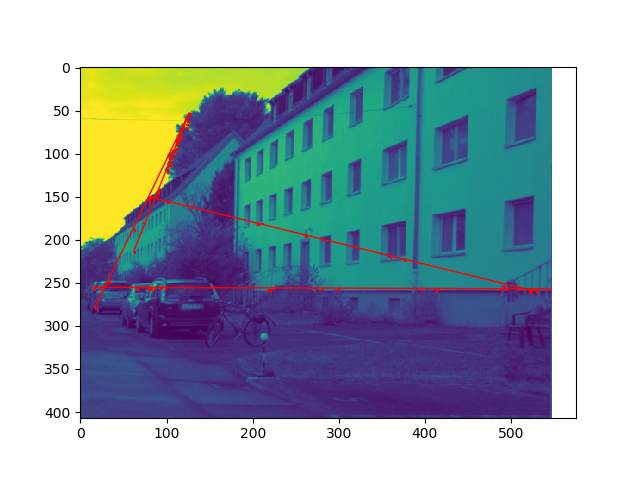
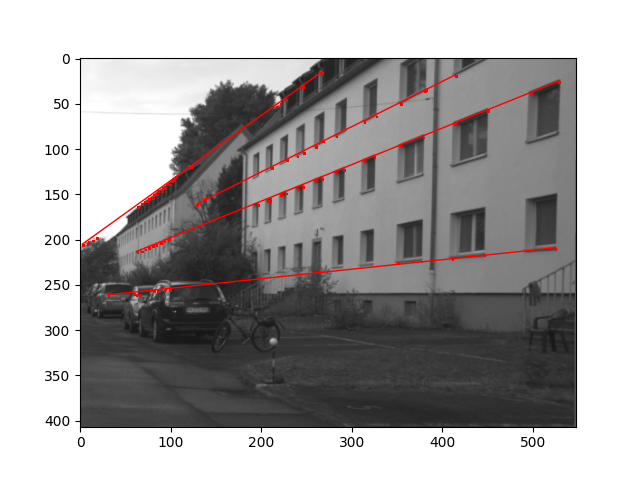
update files

diff --git a/Assignment2_LineDetection/hough.py b/Assignment2_LineDetection/hough.py
@@ -1,4 +1,5 @@
 import numpy as np
+import matplotlib.pyplot as plt
 
 
 def detect_points(source):
@@ -12,7 +13,67 @@ def detect_points(source):
     return points
 
 
-def hough_transform(hessian_matrix):
+def find_maxima(accumulator):
+    y, x = accumulator.shape
+    point_1 = (0, 0)
+    point_2 = (0, 0)
+    point_3 = (0, 0)
+    point_4 = (0, 0)
+
+    for rho in range(y):
+        for theta in range(x):
+            if accumulator[rho][theta] > accumulator[point_1[0]][point_1[1]]:
+                point_4 = point_3
+                point_3 = point_2
+                point_2 = point_1
+                point_1 = (rho, theta)
+            elif accumulator[rho][theta] > accumulator[point_2[0]][point_2[1]]:
+                point_4 = point_3
+                point_3 = point_2
+                point_2 = (rho, theta)
+            elif accumulator[rho][theta] > accumulator[point_3[0]][point_3[1]]:
+                point_4 = point_3
+                point_3 = (rho, theta)
+            elif accumulator[rho][theta] > accumulator[point_4[0]][point_4[1]]:
+                point_4 = (rho, theta)
+
+    return [point_1, point_2, point_3, point_4]
+
+
+def plot_lines(image, size, polar_coord):
+    max_y, max_x = size
+
+    fig, ax = plt.subplots(1)
+    ax.imshow(image)
+
+    for line in polar_coord:
+        rho, theta = line
+        x_i = 0
+        y_i = int(rho / np.sin(np.deg2rad(theta)))
+
+        if y_i < 0:
+            y_i = 0
+            x_i = int(rho / np.cos(np.deg2rad(theta)))
+        elif y_i >= max_y:
+            y_i = max_y - 1
+            x_i = int((rho - y_i * np.sin(np.deg2rad(theta))) / np.cos(np.deg2rad(theta)))
+
+        x_f = max_x - 1
+        y_f = int((rho - x_f * np.cos(np.deg2rad(theta))) / np.sin(np.deg2rad(theta)))
+
+        if y_f < 0:
+            y_f = 0
+            x_f = int(rho / np.cos(np.deg2rad(theta)))
+        elif y_f >= max_y:
+            y_f = max_y - 1
+            x_f = int((rho - y_f * np.sin(np.deg2rad(theta))) / np.cos(np.deg2rad(theta)))
+
+        plt.plot([x_i, x_f], [y_i, y_f], color='red', linewidth=1)
+    plt.show()
+    fig.savefig('hough.png')
+
+
+def hough_transform(image, hessian_matrix):
     y, x = hessian_matrix.shape
     bin_x = 181
     bin_y = np.sqrt(x * x + y * y) * 2
@@ -25,4 +86,8 @@ def hough_transform(hessian_matrix):
             rho = point[1] * np.cos(np.deg2rad(theta)) + point[0] * np.sin(np.deg2rad(theta))
             accumulator[int(rho)][theta] += 1
 
-    return accumulator*100
+    best_lines_polar = find_maxima(accumulator)
+    plot_lines(image, (y, x), best_lines_polar)
+
+    return accumulator * 100
+

diff --git a/Assignment2_LineDetection/main.py b/Assignment2_LineDetection/main.py
@@ -30,10 +30,10 @@ def main():
     image2 = Image.open('road.png')
     image_pix = np.array(image)
 
-    #ransac.ransac_findlines(image2, image_pix, 100, 2)
-    out_pix = hough.hough_transform(image_pix)
+    # ransac.ransac_findlines(image2, image_pix, 100, 2)
+    out_pix = hough.hough_transform(image2, image_pix)
     out = Image.fromarray(out_pix)
-    out.show()
+    out.convert("L").save('hough_space.png')
 
 
 if __name__ == '__main__':

diff --git a/Assignment2_LineDetection/ransac.py b/Assignment2_LineDetection/ransac.py
@@ -138,3 +138,4 @@ def ransac_findlines(image, hessian_matrix, min_inlier, dist_threshold):
     plt.show()
 
     fig.savefig('ransac.png')
+
